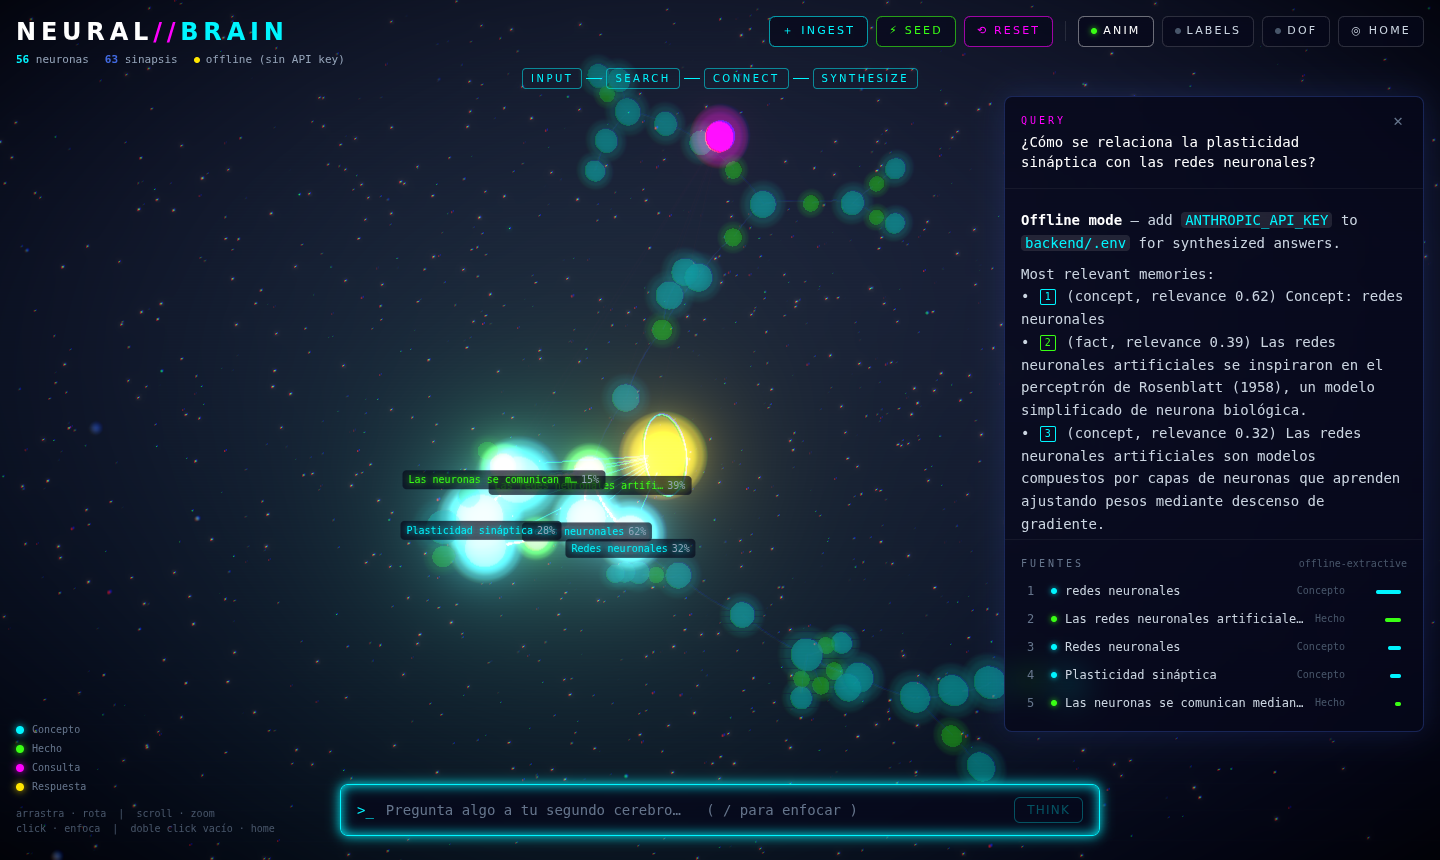
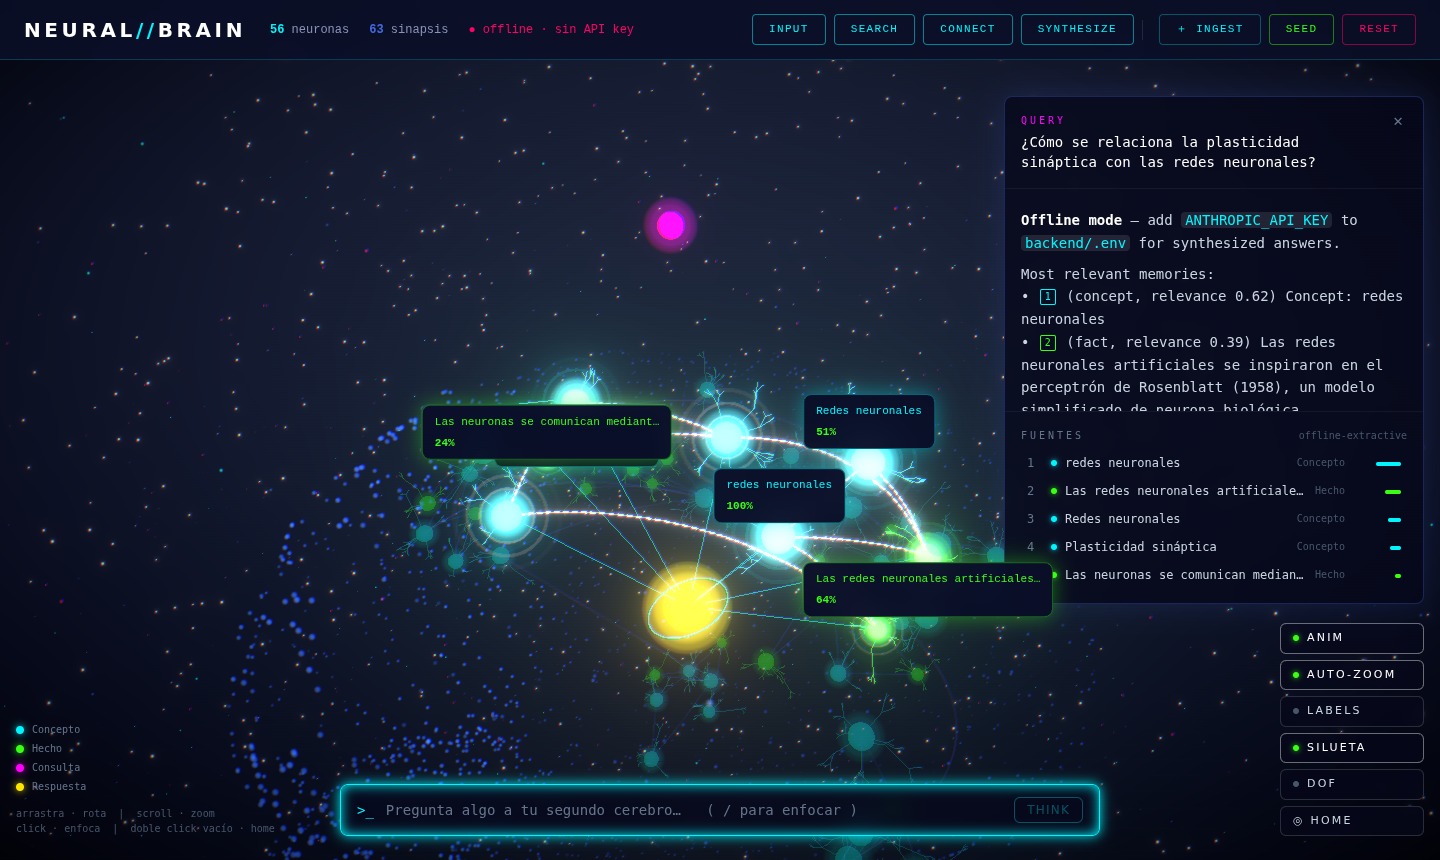
docs: document brain layout, auto-zoom and new controls
Claude-Session: https://claude.ai/code/session_01FtnkjFZqhvsLejwne1Sczp

diff --git a/README.md b/README.md
@@ -19,6 +19,9 @@
 | 🧠 **Ingesta** | Cada nota se convierte en una **neurona**. Se enlaza por similitud semántica con las que ya existen, y cada *tag* crea (o refuerza) una **neurona-concepto** hub. |
 | 🔎 **RAG** | Una pregunta se embebe, se buscan los recuerdos más cercanos en ChromaDB y el grafo encuentra los **caminos** que los unen. Claude sintetiza la respuesta citando las fuentes `[n]`. |
 | ✨ **Visualización** | El proceso se emite por **SSE** fase a fase y el frontend lo anima: la consulta aparece, una onda escanea el cerebro, la corriente eléctrica recorre las sinapsis y la respuesta emerge en el centro. |
+| 🧬 **Forma de cerebro** | Las neuronas viven dentro de un cerebro humano: dos hemisferios, lóbulos frontal, parietal, temporal y occipital, cerebelo e hipocampo. Cada **área de conocimiento** (comunidad del grafo) ocupa una región, los conceptos están en la corteza y los hechos más adentro. |
+
+![cerebro en reposo](docs/brain-idle.png)
 
 ## Quick start
 
@@ -75,9 +78,13 @@ cd frontend && npm install && npm run dev
 
 Cada fase empieza en *su* instante o cuando llegan los datos reales, lo que ocurra después: la animación nunca va por delante del razonamiento. Si Claude tarda, la fase CONNECT sigue viva hasta el primer token.
 
-**Idle:** las neuronas respiran (`scale 1.0 ↔ 1.05`, ciclo 2 s), el grafo rota a 0.1 rpm, las sinapsis tienen *shimmer* y flota polvo neuronal entre 5000 estrellas.
+**Idle:** las neuronas (soma + dendritas + axón) respiran (`scale 1.0 ↔ 1.05`, ciclo 2 s), el cerebro rota lentamente, una silueta holográfica con un barrido de escaneo dibuja corteza, cerebelo y tronco encefálico, y flota polvo neuronal entre 5000 estrellas. Las fibras largas entre lóbulos o hemisferios (tipo cuerpo calloso) se arquean más y son violetas.
 
-**Interacción:** hover → glow + `scale 1.2` + tooltip · click → vuelo suave de cámara + panel de info · arrastrar → rotar · scroll → zoom · doble click en el vacío → vista general · `/` enfoca el input · `Esc` cancela · `↑` recupera la última pregunta · las citas `[n]` de la respuesta son clicables.
+**Durante la respuesta:** la cámara hace **auto-zoom** al cluster activo, cada neurona encontrada emite **anillos de pulso** y muestra una etiqueta con su **% de relevancia** respecto a la mejor coincidencia (la mejor = 100 %).
+
+**Interacción:** hover → glow + `scale 1.2` + etiqueta · click → vuelo suave de cámara + panel de info · arrastrar → rotar · botón derecho / dos dedos → **pan** · scroll → zoom (10–100) · doble click en el vacío → vista general · `/` o la pestaña `INPUT` enfocan el input · `Esc` cancela · `↑` recupera la última pregunta · las citas `[n]` de la respuesta son clicables.
+
+**Panel de vista** (abajo a la derecha): `ANIM`, `AUTO-ZOOM`, `LABELS` (etiquetas de todos los conceptos), `SILUETA`, `DOF`, `HOME`. Las preferencias se recuerdan en el navegador.
 
 **Post-procesado:** Bloom (mipmap), viñeta, aberración cromática que da un "latigazo" en cada cambio de fase (hace de *motion blur* barato) y **Depth of Field** opcional (toggle `DOF`, sigue el punto que orbita la cámara).
 
@@ -139,6 +146,8 @@ curl -X DELETE localhost:8000/api/reset  # borrar todo
 | `TOP_K` | `5` | Recuerdos recuperados por pregunta. |
 | `LINK_THRESHOLD` | `0.35` | Similitud mínima para crear una sinapsis al ingestar. |
 | `MAX_LINKS_PER_NODE` | `4` | Sinapsis semánticas máximas por neurona nueva. |
+| `LAYOUT_MODE` | `brain` | `brain` = forma anatómica de cerebro · `force` = force-directed 3D con clusters por tipo. |
+| `LAYOUT_ITERATIONS` | `200` | Iteraciones del layout `force`. |
 | `STORAGE_DIR` | `./storage` | Dónde se persisten ChromaDB y el grafo. |
 | `CORS_ORIGINS` | `http://localhost:5173,…` | Orígenes permitidos. |
 
@@ -156,14 +165,14 @@ neural-brain/
 │   ├── db/    vector_store.py · graph_store.py
 │   ├── models/schemas.py      Pydantic
 │   ├── api/routes.py          endpoints
-│   ├── utils/ logger.py · graph_layout.py
+│   ├── utils/ logger.py · graph_layout.py · brain_shape.py
 │   ├── data/seed.json         30 recuerdos de ejemplo
 │   └── tests/                 pytest (offline)
 ├── frontend/
 │   └── src/
-│       ├── components/        BrainCanvas · Neuron · Connection · Particles · ThinkingFX
-│       │                      CameraRig · QueryInput · ResponsePanel · NeuronInfo · Controls …
-│       ├── hooks/             useBrain · useThinking · useGraphData
+│       ├── components/        BrainCanvas · Neuron · Connection · Particles · ThinkingFX · PulseRings
+│       │                      BrainShell · CameraRig · Header · QueryInput · ResponsePanel · NeuronInfo · Controls …
+│       ├── hooks/             useBrain · useThinking · useGraphData · useAutoZoom
 │       ├── utils/             api (axios + SSE) · animations · colors · particleBus
 │       └── shaders/           neuronGlow.glsl · connectionPulse.glsl
 ├── scripts/                   setup / run (.sh y .ps1)

diff --git a/docs/ARCHITECTURE.md b/docs/ARCHITECTURE.md
@@ -32,11 +32,34 @@ Si al arrancar no coinciden (p. ej. un crash a mitad de ingesta) se reinician en
 
 Todo ocurre bajo un `asyncio.Lock` y en un hilo (`asyncio.to_thread`) para no bloquear el event loop.
 
-## Layout 3D (`utils/graph_layout.py`)
+## Layout anatómico (`utils/brain_shape.py`, modo `brain`, por defecto)
 
-Fruchterman–Reingold de NetworkX con `dim=3`, ponderado por `weight`. Dos detalles:
+La superficie del cerebro es una función analítica `cortex_radius(dirección)`: un elipsoide con la parte
+frontal más estrecha, la base aplanada, lóbulos temporales abultados, la cisura longitudinal entre
+hemisferios y un rizado barato que imita circunvoluciones. El cerebelo y el hipocampo son elipsoides aparte.
 
-- **Escala dinámica**: `10 + 2.2·√n`, para que un cerebro grande no colapse en una bola.
+1. **Regiones**: comunidades de Louvain (ponderadas por `weight`, semilla fija) → regiones. La comunidad
+   más grande va a la región con más capacidad (frontal izq./der., parietal, temporal, occipital,
+   cerebelo, hipocampo). Si hay más comunidades que regiones, se reparten en la menos ocupada.
+2. **Anclas**: cada neurona recibe un punto determinista (semilla = hash del id) dentro de su región:
+   un cono de la corteza en su hemisferio, o el volumen del elipsoide. Conceptos al 88–98 % del radio
+   (corteza), hechos al 62–90 % (más profundo).
+3. **Relajación** (60 iteraciones, 20 si ya había posiciones): repulsión por debajo de una distancia
+   mínima, muelles a lo largo de las sinapsis (fuertes dentro de una región, débiles entre regiones) y un
+   muelle al ancla. Tras cada paso se proyecta de vuelta bajo la corteza y al hemisferio correcto.
+4. Si una neurona ya existía y sigue en la misma región, parte de su posición anterior: añadir notas no
+   reordena el cerebro.
+
+`GET /api/graph` añade `region`/`lobe`/`color` a cada nodo, `range: local | long` a cada arista (long =
+une lóbulos o hemisferios distintos, se dibuja como un arco violeta) y `brain.shell`: ~2400 puntos
+sobre la misma superficie para la silueta holográfica.
+
+## Layout force (`utils/graph_layout.py`, `LAYOUT_MODE=force`)
+
+Fruchterman–Reingold de NetworkX con `dim=3`, 200 iteraciones, `k = 2.5/√n` (más separación) y un
+desplazamiento por tipo que separa conceptos y hechos en dos clusters. Dos detalles:
+
+- **Escala dinámica**: `15 + 1.6·√n` (compartida por ambos layouts), para que un cerebro grande no colapse en una bola.
 - **Estabilidad**: las posiciones anteriores son el punto de partida y los nodos nuevos nacen junto a
   sus vecinos, así añadir una nota "empuja" el cerebro en lugar de reordenarlo entero.
 
@@ -93,7 +116,11 @@ que la neurona-respuesta emerge, para que el texto aparezca con ella.
 | `ThinkingParticles` | pool de 4000 puntos en un único `BufferGeometry`, alimentado por `particleBus` (burst / travel por curva) |
 | `AmbientParticles` | polvo con deriva calculada en el vertex shader |
 | `ThinkingFX` | neurona-consulta, ondas (fresnel en modo *rim*), plano de escaneo, rayos, neurona-respuesta |
-| `CameraRig` | `OrbitControls` con damping + vuelos con easing (`focusOn`, `home`) |
+| `CameraRig` | `OrbitControls` (zoom 10–100, pan, damping) + vuelos con easing (`focusOn`, `frame`, `home`) |
+| `useAutoZoom` | al empezar SEARCH encuadra las neuronas activas + la consulta; al cerrar la respuesta vuelve a HOME |
+| `PulseRings` | tres anillos escalonados que se expanden desde cada neurona activa, siempre de cara a la cámara |
+| `BrainShell` | nube de puntos de la silueta con parpadeo y una banda de escaneo; se ilumina al pensar |
+| `Neuron` (dendritas) | soma + 4–6 dendritas ramificadas + un axón largo, generadas de forma determinista por id; etiqueta sólo en hover o si es un resultado |
 | `ShaderWarmup` | compila por adelantado los materiales de las animaciones para evitar tirones al primer uso |
 
 Post-procesado: `Bloom` (mipmap blur) → `ChromaticAberration` (pico en cada cambio de fase) → `Vignette`,

diff --git a/docs/API.md b/docs/API.md
@@ -30,7 +30,7 @@ Respuesta `text/event-stream`. Cada evento lleva `event: <type>` y `data: <json>
 
 | type | data |
 |---|---|
-| `search` | `{ question, nodes: [{ id, score, rank, label, type, content }] }` |
+| `search` | `{ question, nodes: [{ id, score, percentage, rank, label, type, content }], percentages: { id: % } }` — `percentage` es relativo a la mejor coincidencia (= 100) |
 | `connect` | `{ paths: [[id, …]], edges: [{ from, to, weight }], bridges: [id] }` |
 | `token` | `{ text }` — fragmento de la respuesta (N veces) |
 | `synthesize` | `{ answer, sources: [{ id, label, type, score, content }], model, offline, stop_reason }` |
@@ -42,9 +42,12 @@ Respuesta `text/event-stream`. Cada evento lleva `event: <type>` y `data: <json>
 ## `GET /graph`
 
 ```json
-{ "nodes": [{ "id", "label", "type", "content", "tags", "position": { "x", "y", "z" }, "size", "degree", "created_at" }],
-  "edges": [{ "from", "to", "weight", "kind": "semantic | tag" }],
-  "stats": { "nodes", "edges", "concepts", "facts" } }
+{ "nodes": [{ "id", "label", "type", "color", "region", "lobe", "content", "tags",
+               "position": { "x", "y", "z" }, "size", "degree", "created_at" }],
+  "edges": [{ "from", "to", "weight", "kind": "semantic | tag", "range": "local | long" }],
+  "stats": { "nodes", "edges", "concepts", "facts" },
+  "layout": "brain | force",
+  "brain": { "scale", "shell": [[x, y, z], …] } }   // null con LAYOUT_MODE=force
 ```
 
 ## `GET /node/{id}`
